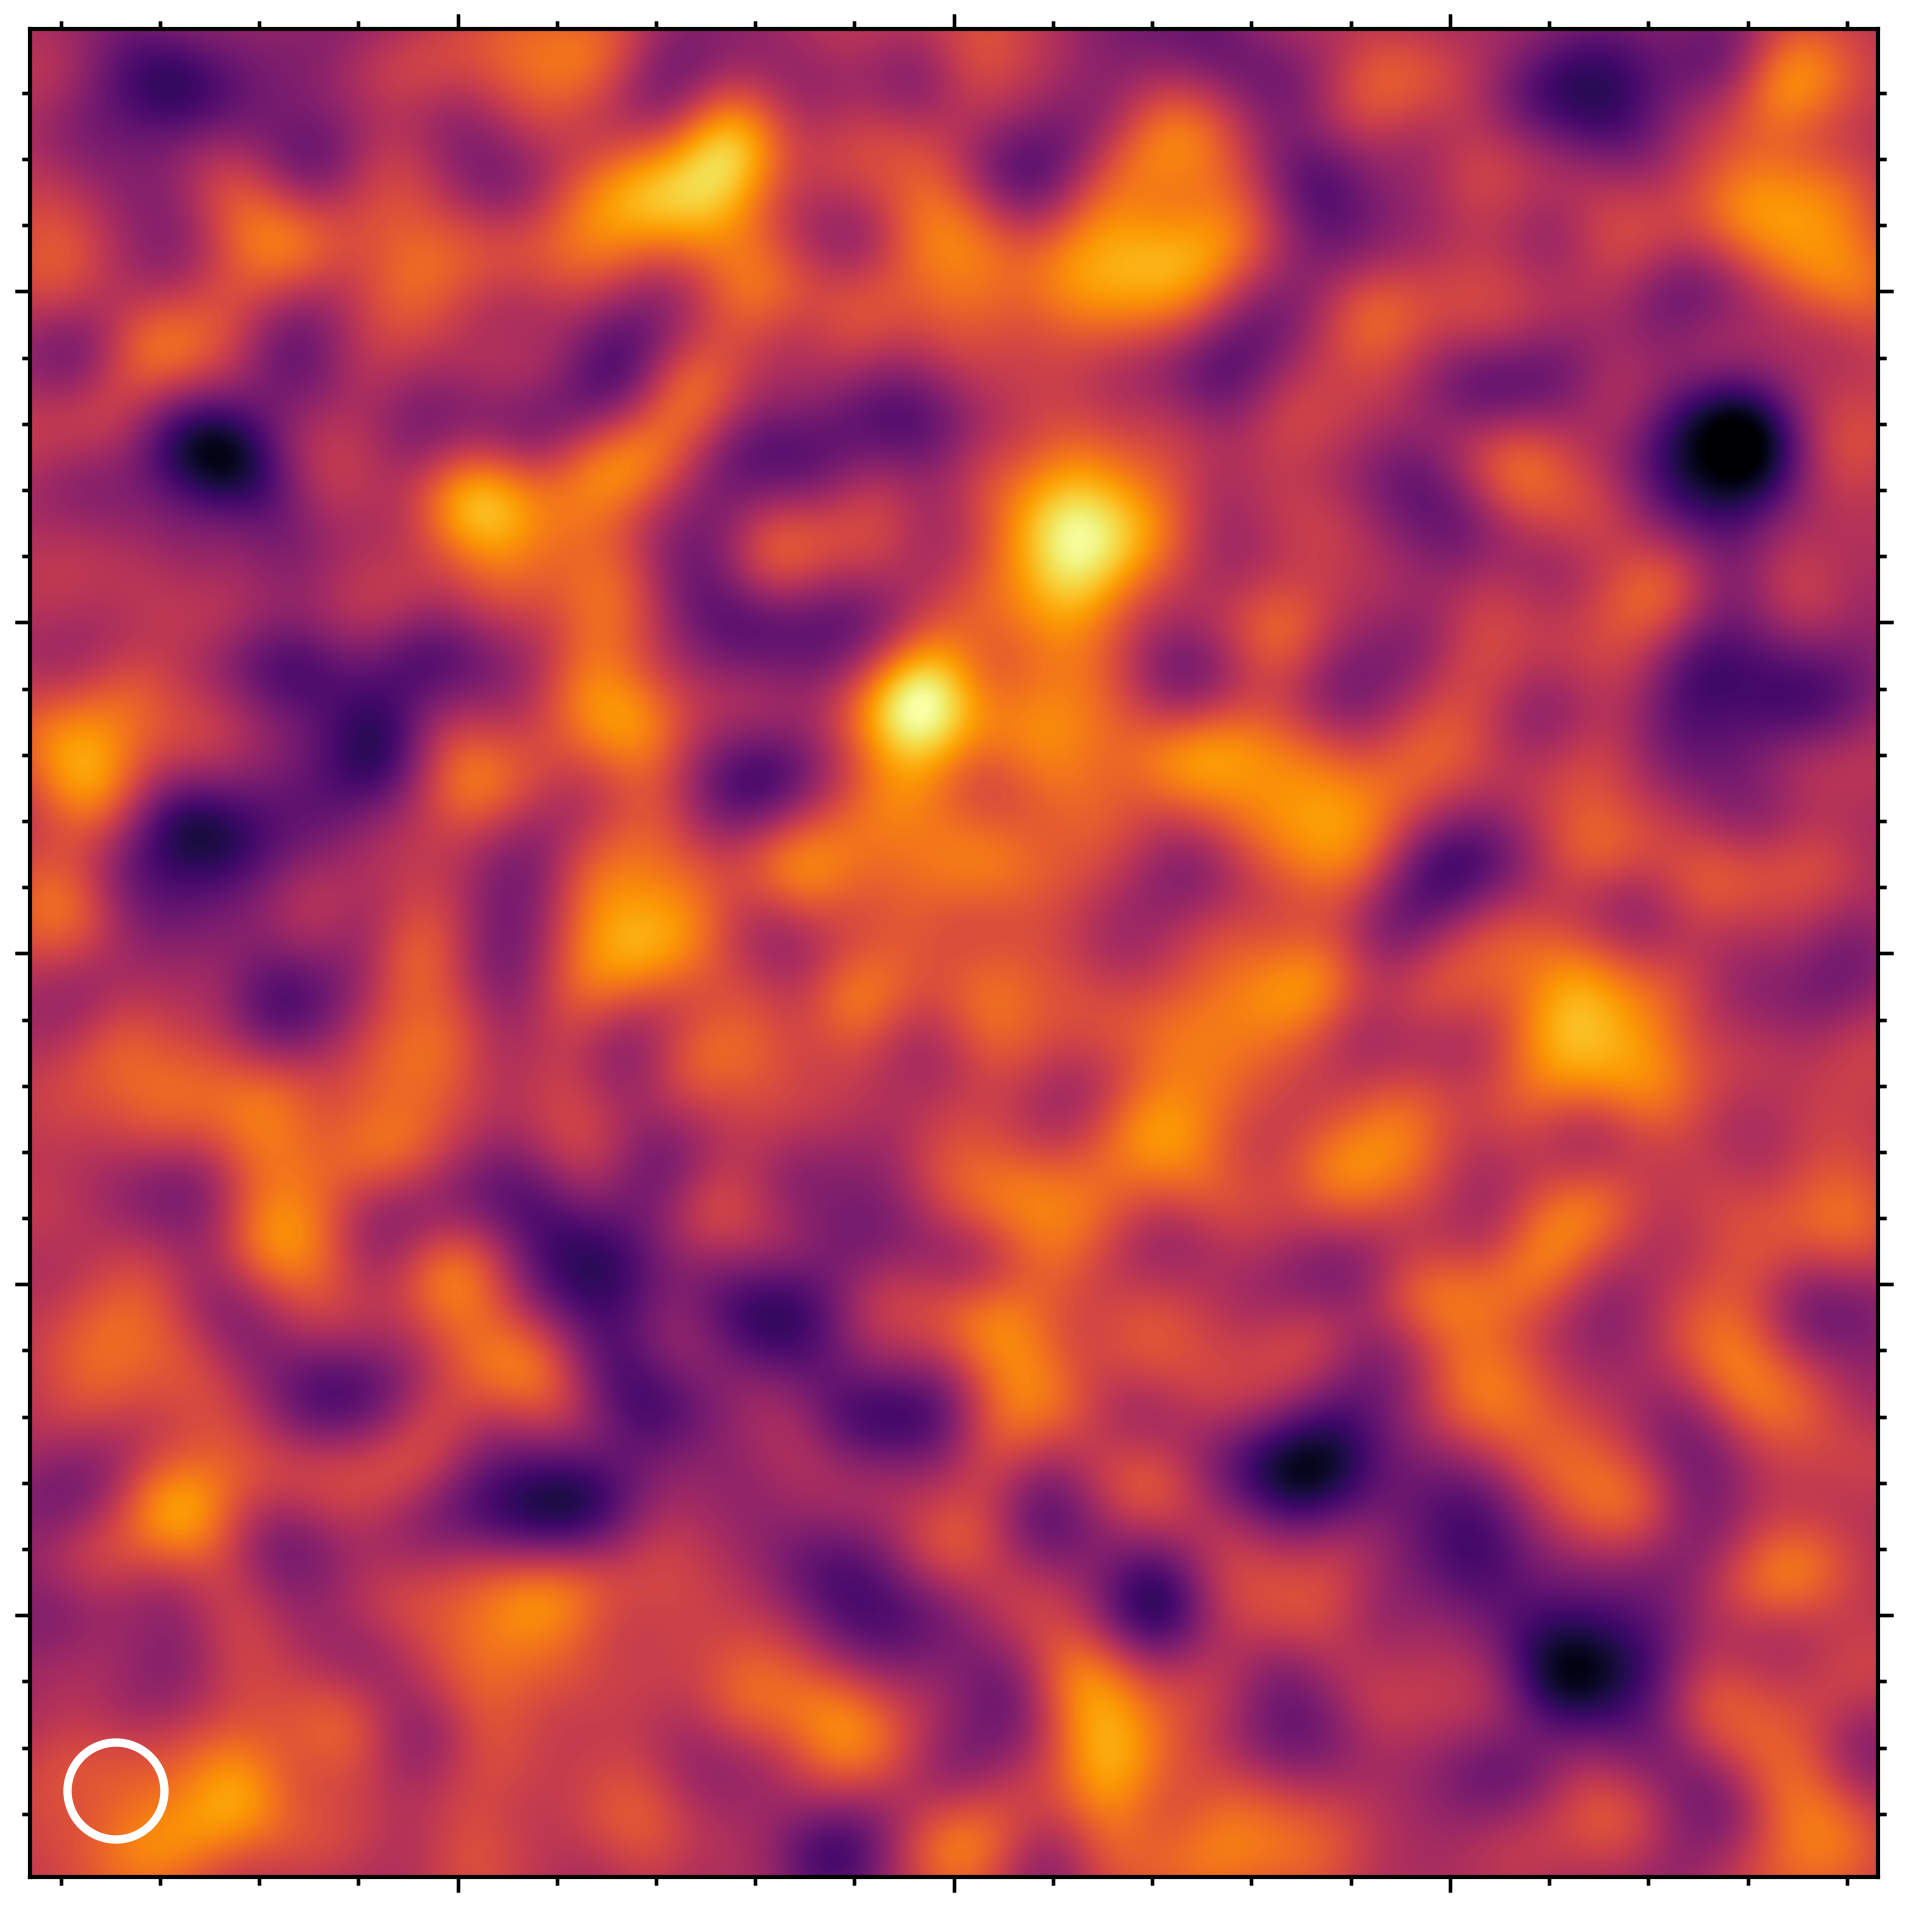
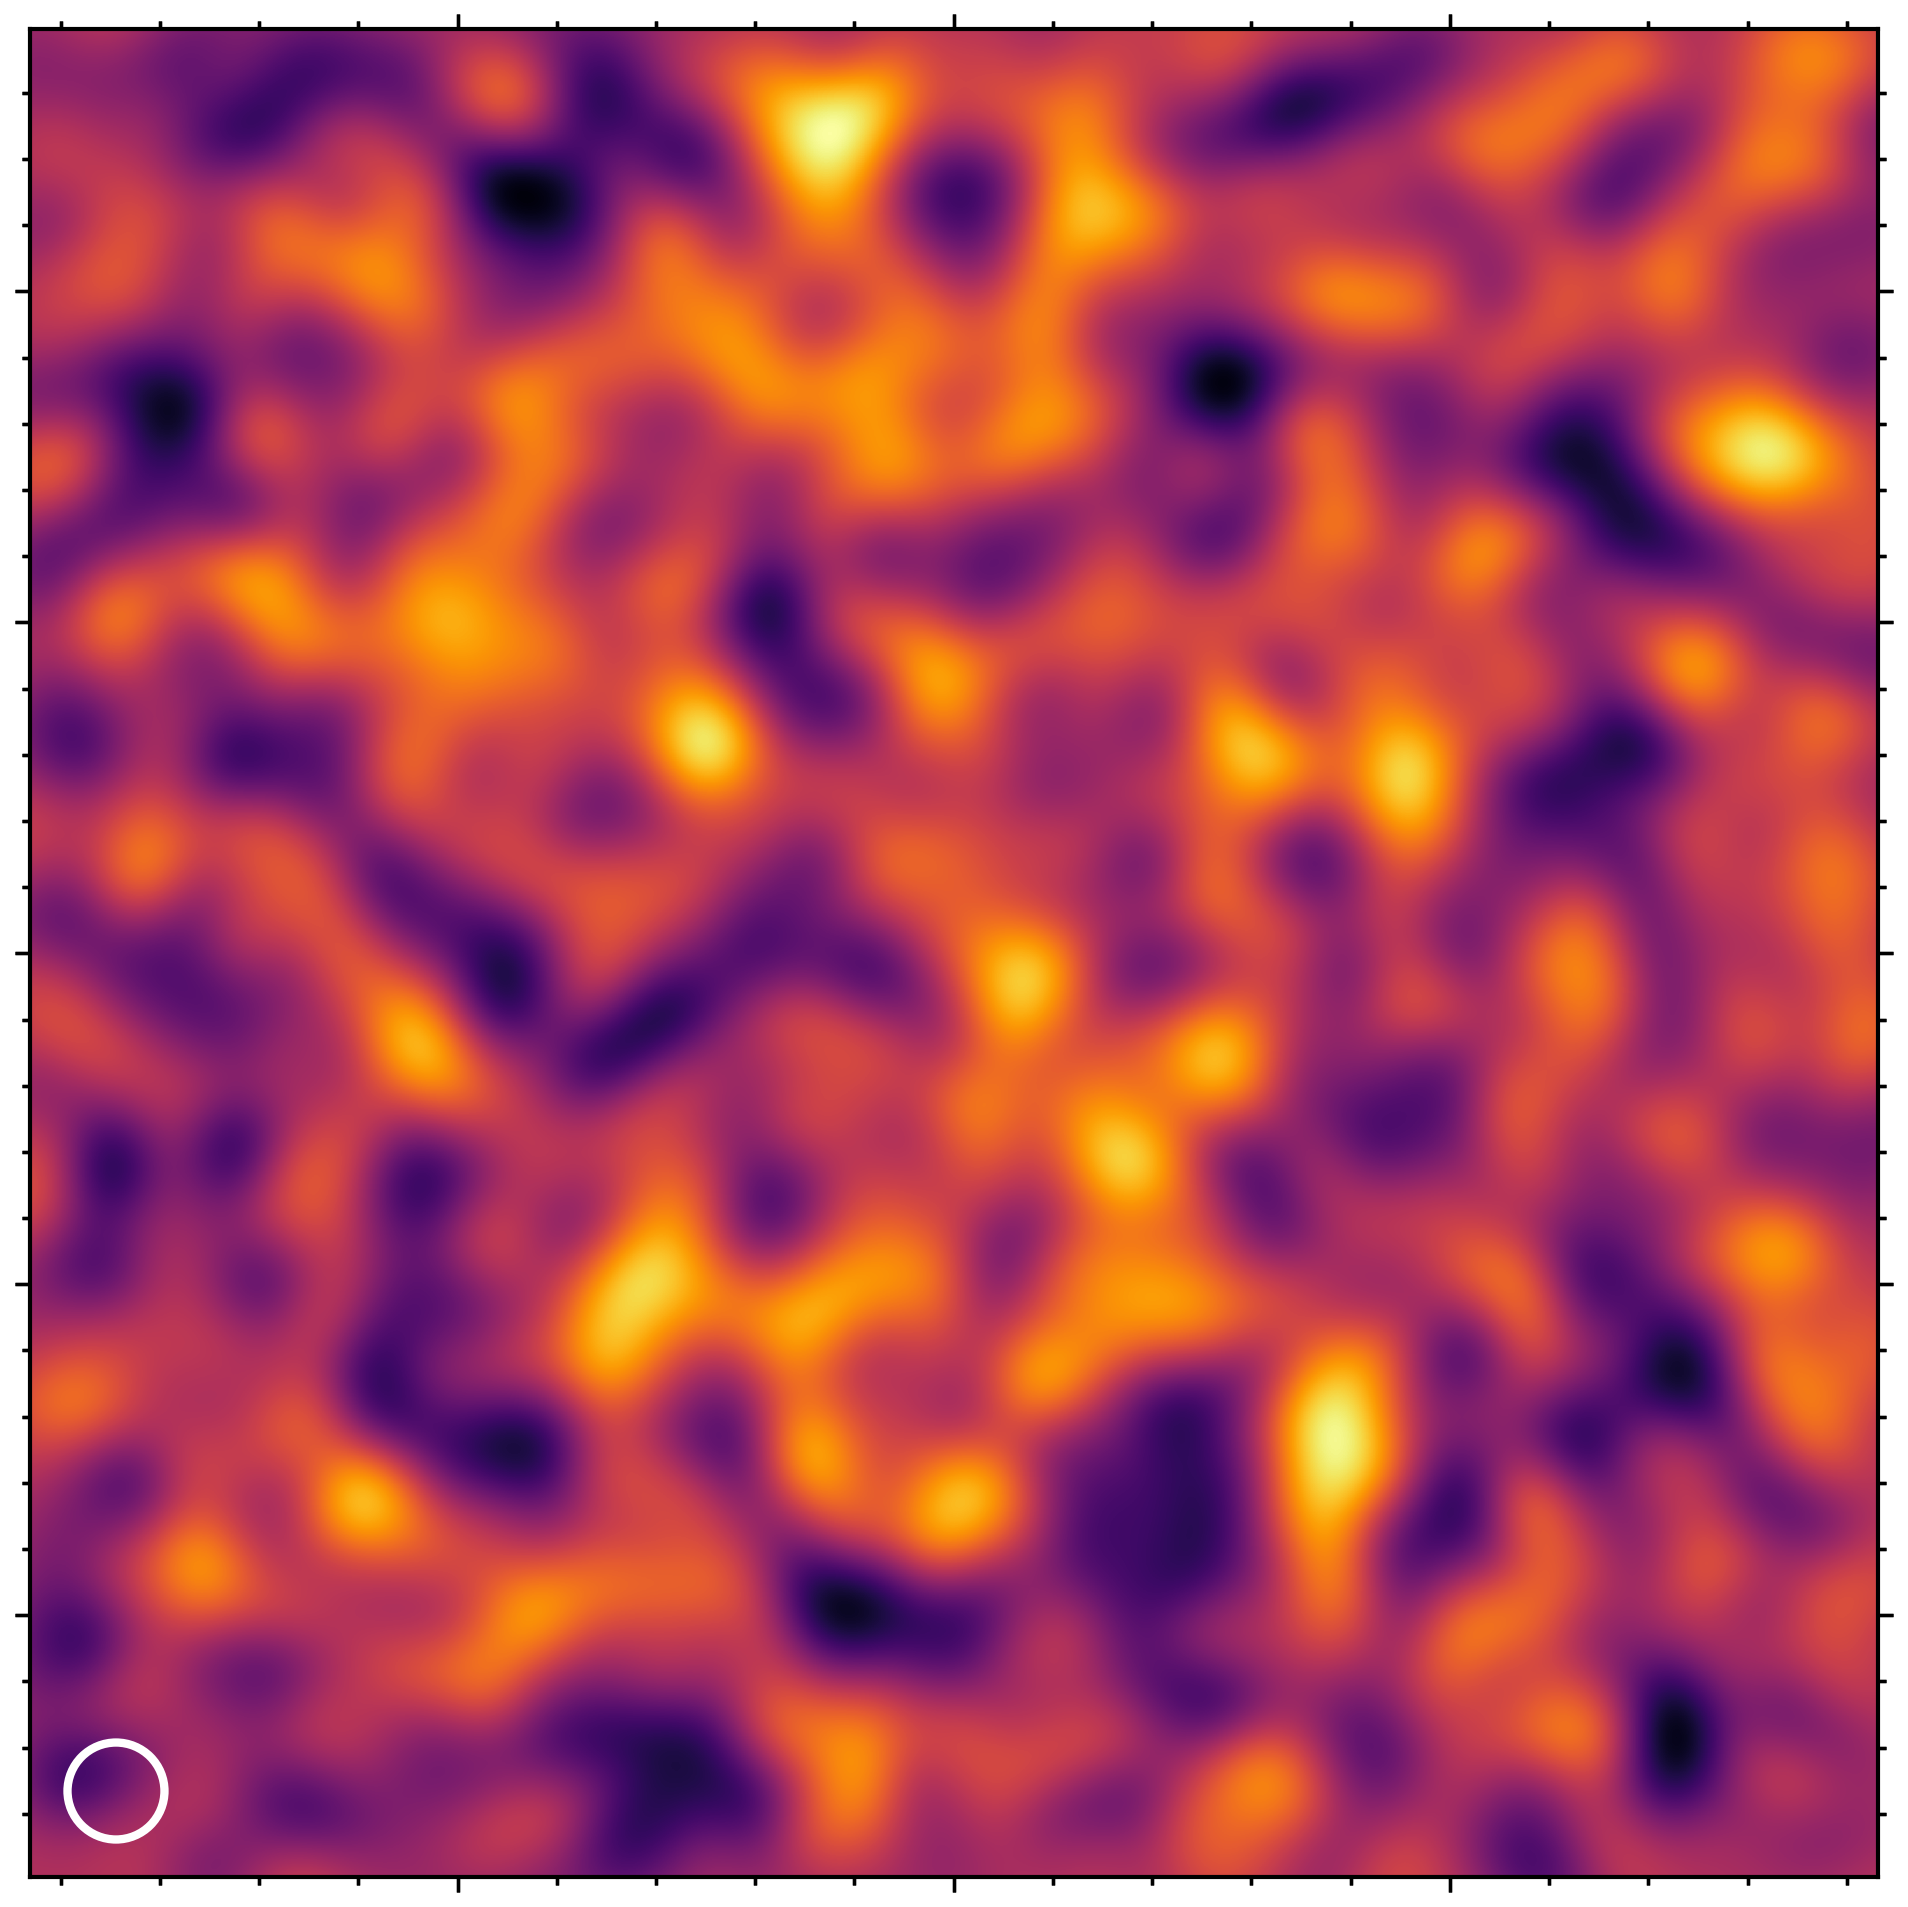
mejoras de ruido

diff --git a/Modelo/ngVLA_config_B.py b/Modelo/ngVLA_config_B.py
@@ -30,28 +30,28 @@ def add_correlated_noise(fits_file, beam_arcsec, noise_nJy):
     pixel_deg = abs(header["CDELT1"])
     pixel_arcsec = pixel_deg * 3600.0
 
-    # áreas
-    beam_area = 1.1331 * beam_arcsec**2
-    pixel_area = pixel_arcsec**2
-
-    # pixeles por beam
-    N_pix_beam = beam_area / pixel_area
-
-    # ruido por pixel
-    sigma_pixel = sigma_beam / np.sqrt(N_pix_beam)
-
     print("Beam:", beam_arcsec, "arcsec")
     print("Noise:", noise_nJy, "nJy/beam")
     print("Pixel:", pixel_arcsec, "arcsec")
-    print("Pixels/beam:", N_pix_beam)
-    print("Sigma pixel:", sigma_pixel, "Jy")
+    print("Sigma beam:", sigma_beam, "Jy")
+
+    # imsmooth conserva el flujo total (Jy/pixel), diluyendo el pico por
+    # pixel en proporción al número de pixeles dentro del beam. Hay que
+    # reescalar a Jy/beam (multiplicando por el área del beam en pixeles)
+    # antes de sumar el ruido, que sí está definido en Jy/beam.
+    beam_area_pix = (np.pi / (4.0 * np.log(2.0))) * (beam_arcsec / pixel_arcsec) ** 2
+    data = data * beam_area_pix
+
+    print("Pixeles/beam:", beam_area_pix)
 
     # =====================================
-    # Ruido blanco
+    # Ruido blanco con std = sigma_beam. Al convolucionar con un kernel
+    # normalizado en L2 (ver abajo), el ruido correlacionado resultante
+    # conserva std ~ sigma_beam por pixel, consistente con Jy/beam.
     # =====================================
     white_noise = np.random.normal(
         loc=0.0,
-        scale=sigma_pixel,
+        scale=sigma_beam,
         size=data.shape
     )
 
@@ -85,7 +85,10 @@ def add_correlated_noise(fits_file, beam_arcsec, noise_nJy):
         (2 * sigma_kernel_pix**2)
     )
 
-    kernel /= kernel.sum()
+    # Normalización L2 (no L1): preserva el std del ruido tras la
+    # convolución. kernel /= kernel.sum() conserva flujo (correcto para
+    # suavizar señal) pero diluye la varianza del ruido.
+    kernel /= np.sqrt((kernel**2).sum())
 
     # =====================================
     # Correlacionar ruido
@@ -107,6 +110,7 @@ def add_correlated_noise(fits_file, beam_arcsec, noise_nJy):
     header["BMAJ"] = beam_deg
     header["BMIN"] = beam_deg
     header["BPA"] = 0.0
+    header["BUNIT"] = "Jy/beam"
 
     header.comments["BMAJ"] = "Beam major axis [deg]"
     header.comments["BMIN"] = "Beam minor axis [deg]"

diff --git a/Modelo/ngVLA_config_A.py b/Modelo/ngVLA_config_A.py
@@ -26,26 +26,26 @@ def add_correlated_noise(fits_file, beam_arcsec, noise_nJy):
     pixel_deg = abs(header["CDELT1"])
     pixel_arcsec = pixel_deg * 3600.0
 
-    # áreas
-    beam_area = 1.1331 * beam_arcsec**2
-    pixel_area = pixel_arcsec**2
-
-    # pixeles por beam
-    N_pix_beam = beam_area / pixel_area
-
-    # ruido por pixel
-    sigma_pixel = sigma_beam / np.sqrt(N_pix_beam)
-
     print("Beam:", beam_arcsec, "arcsec")
     print("Noise:", noise_nJy, "nJy/beam")
     print("Pixel:", pixel_arcsec, "arcsec")
-    print("Pixels/beam:", N_pix_beam)
-    print("Sigma pixel:", sigma_pixel, "Jy")
+    print("Sigma beam:", sigma_beam, "Jy")
 
-    # Ruido blanco
+    # imsmooth conserva el flujo total (Jy/pixel), diluyendo el pico por
+    # pixel en proporción al número de pixeles dentro del beam. Hay que
+    # reescalar a Jy/beam (multiplicando por el área del beam en pixeles)
+    # antes de sumar el ruido, que sí está definido en Jy/beam.
+    beam_area_pix = (np.pi / (4.0 * np.log(2.0))) * (beam_arcsec / pixel_arcsec) ** 2
+    data = data * beam_area_pix
+
+    print("Pixeles/beam:", beam_area_pix)
+
+    # Ruido blanco con std = sigma_beam. Al convolucionar con un kernel
+    # normalizado en L2 (ver abajo), el ruido correlacionado resultante
+    # conserva std ~ sigma_beam por pixel, consistente con Jy/beam.
     white_noise = np.random.normal(
         loc=0.0,
-        scale=sigma_pixel,
+        scale=sigma_beam,
         size=data.shape
     )
 
@@ -75,9 +75,12 @@ def add_correlated_noise(fits_file, beam_arcsec, noise_nJy):
         (2 * sigma_kernel_pix**2)
     )
 
-    kernel /= kernel.sum()
+    # Normalización L2 (no L1): preserva el std del ruido tras la
+    # convolución. kernel /= kernel.sum() conserva flujo (correcto para
+    # suavizar señal) pero diluye la varianza del ruido.
+    kernel /= np.sqrt((kernel**2).sum())
 
-    # ruido correlacionado 
+    # ruido correlacionado
     correlated_noise = fftconvolve(
         white_noise,
         kernel,
@@ -93,6 +96,7 @@ def add_correlated_noise(fits_file, beam_arcsec, noise_nJy):
     header["BMAJ"] = beam_deg
     header["BMIN"] = beam_deg
     header["BPA"] = 0.0
+    header["BUNIT"] = "Jy/beam"
 
     header.comments["BMAJ"] = "Beam major axis [deg]"
     header.comments["BMIN"] = "Beam minor axis [deg]"

diff --git a/Modelo/VLA_config_A.py b/Modelo/VLA_config_A.py
@@ -26,26 +26,26 @@ def add_correlated_noise(fits_file, beam_arcsec, noise_uJy):
     pixel_deg = abs(header["CDELT1"])
     pixel_arcsec = pixel_deg * 3600.0
 
-    # áreas
-    beam_area = 1.1331 * beam_arcsec**2
-    pixel_area = pixel_arcsec**2
-
-    # pixeles por beam
-    N_pix_beam = beam_area / pixel_area
-
-    # ruido por pixel
-    sigma_pixel = sigma_beam / np.sqrt(N_pix_beam)
-
     print("Beam:", beam_arcsec, "arcsec")
     print("Noise:", noise_uJy, "uJy/beam")
     print("Pixel:", pixel_arcsec, "arcsec")
-    print("Pixels/beam:", N_pix_beam)
-    print("Sigma pixel:", sigma_pixel, "Jy")
+    print("Sigma beam:", sigma_beam, "Jy")
 
-   #Ruido blanco
+    # imsmooth conserva el flujo total (Jy/pixel), diluyendo el pico por
+    # pixel en proporción al número de pixeles dentro del beam. Hay que
+    # reescalar a Jy/beam (multiplicando por el área del beam en pixeles)
+    # antes de sumar el ruido, que sí está definido en Jy/beam.
+    beam_area_pix = (np.pi / (4.0 * np.log(2.0))) * (beam_arcsec / pixel_arcsec) ** 2
+    data = data * beam_area_pix
+
+    print("Pixeles/beam:", beam_area_pix)
+
+    # Ruido blanco con std = sigma_beam. Al convolucionar con un kernel
+    # normalizado en L2 (ver abajo), el ruido correlacionado resultante
+    # conserva std ~ sigma_beam por pixel, consistente con Jy/beam.
     white_noise = np.random.normal(
         loc=0.0,
-        scale=sigma_pixel,
+        scale=sigma_beam,
         size=data.shape
     )
 
@@ -74,7 +74,10 @@ def add_correlated_noise(fits_file, beam_arcsec, noise_uJy):
         (2 * sigma_kernel_pix**2)
     )
 
-    kernel /= kernel.sum()
+    # Normalización L2 (no L1): preserva el std del ruido tras la
+    # convolución. kernel /= kernel.sum() conserva flujo (correcto para
+    # suavizar señal) pero diluye la varianza del ruido.
+    kernel /= np.sqrt((kernel**2).sum())
 
     # Ruido correlacionado
     correlated_noise = fftconvolve(
@@ -92,6 +95,7 @@ def add_correlated_noise(fits_file, beam_arcsec, noise_uJy):
     header["BMAJ"] = beam_deg
     header["BMIN"] = beam_deg
     header["BPA"] = 0.0
+    header["BUNIT"] = "Jy/beam"
 
     header.comments["BMAJ"] = "Beam major axis [deg]"
     header.comments["BMIN"] = "Beam minor axis [deg]"

diff --git a/Modelo/VLA_config_B.py b/Modelo/VLA_config_B.py
@@ -26,26 +26,26 @@ def add_correlated_noise(fits_file, beam_arcsec, noise_uJy):
     pixel_deg = abs(header["CDELT1"])
     pixel_arcsec = pixel_deg * 3600.0
 
-    # áreas
-    beam_area = 1.1331 * beam_arcsec**2
-    pixel_area = pixel_arcsec**2
-
-    # pixeles por beam
-    N_pix_beam = beam_area / pixel_area
-
-    # ruido por pixel
-    sigma_pixel = sigma_beam / np.sqrt(N_pix_beam)
-
     print("Beam:", beam_arcsec, "arcsec")
     print("Noise:", noise_uJy, "uJy/beam")
     print("Pixel:", pixel_arcsec, "arcsec")
-    print("Pixels/beam:", N_pix_beam)
-    print("Sigma pixel:", sigma_pixel, "Jy")
+    print("Sigma beam:", sigma_beam, "Jy")
 
-    # Ruido blanco
+    # imsmooth conserva el flujo total (Jy/pixel), diluyendo el pico por
+    # pixel en proporción al número de pixeles dentro del beam. Hay que
+    # reescalar a Jy/beam (multiplicando por el área del beam en pixeles)
+    # antes de sumar el ruido, que sí está definido en Jy/beam.
+    beam_area_pix = (np.pi / (4.0 * np.log(2.0))) * (beam_arcsec / pixel_arcsec) ** 2
+    data = data * beam_area_pix
+
+    print("Pixeles/beam:", beam_area_pix)
+
+    # Ruido blanco con std = sigma_beam. Al convolucionar con un kernel
+    # normalizado en L2 (ver abajo), el ruido correlacionado resultante
+    # conserva std ~ sigma_beam por pixel, consistente con Jy/beam.
     white_noise = np.random.normal(
         loc=0.0,
-        scale=sigma_pixel,
+        scale=sigma_beam,
         size=data.shape
     )
 
@@ -74,8 +74,10 @@ def add_correlated_noise(fits_file, beam_arcsec, noise_uJy):
         (2 * sigma_kernel_pix**2)
     )
 
-    kernel /= kernel.sum()
-
+    # Normalización L2 (no L1): preserva el std del ruido tras la
+    # convolución. kernel /= kernel.sum() conserva flujo (correcto para
+    # suavizar señal) pero diluye la varianza del ruido.
+    kernel /= np.sqrt((kernel**2).sum())
 
     correlated_noise = fftconvolve(
         white_noise,
@@ -92,6 +94,7 @@ def add_correlated_noise(fits_file, beam_arcsec, noise_uJy):
     header["BMAJ"] = beam_deg
     header["BMIN"] = beam_deg
     header["BPA"] = 0.0
+    header["BUNIT"] = "Jy/beam"
 
     header.comments["BMAJ"] = "Beam major axis [deg]"
     header.comments["BMIN"] = "Beam minor axis [deg]"

diff --git a/Modelo/config_main.py b/Modelo/config_main.py
@@ -1,3 +1,5 @@
+import glob
+import shutil
 import subprocess
 import sys
 import os
@@ -12,10 +14,27 @@ scripts = [
 
 base = os.path.dirname(os.path.abspath(__file__))
 
+
+def clean_casa_artifacts(base):
+    print("\nLimpiando logs y temporales de CASA...")
+
+    patterns = ["casa-*.log", "*.last", "temp_*.image", "temp_*.im"]
+
+    for pattern in patterns:
+        for path in glob.glob(os.path.join(base, pattern)):
+            if os.path.isdir(path):
+                shutil.rmtree(path)
+            else:
+                os.remove(path)
+            print("Eliminado:", path)
+
+
 for script in scripts:
     print(f"\n{'='*50}")
     print(f"Ejecutando {script}...")
     print(f"{'='*50}\n")
     subprocess.run([sys.executable, script], cwd=base, check=True)
+
+clean_casa_artifacts(base)
 
 print("\nTodas las simulaciones terminadas.")
